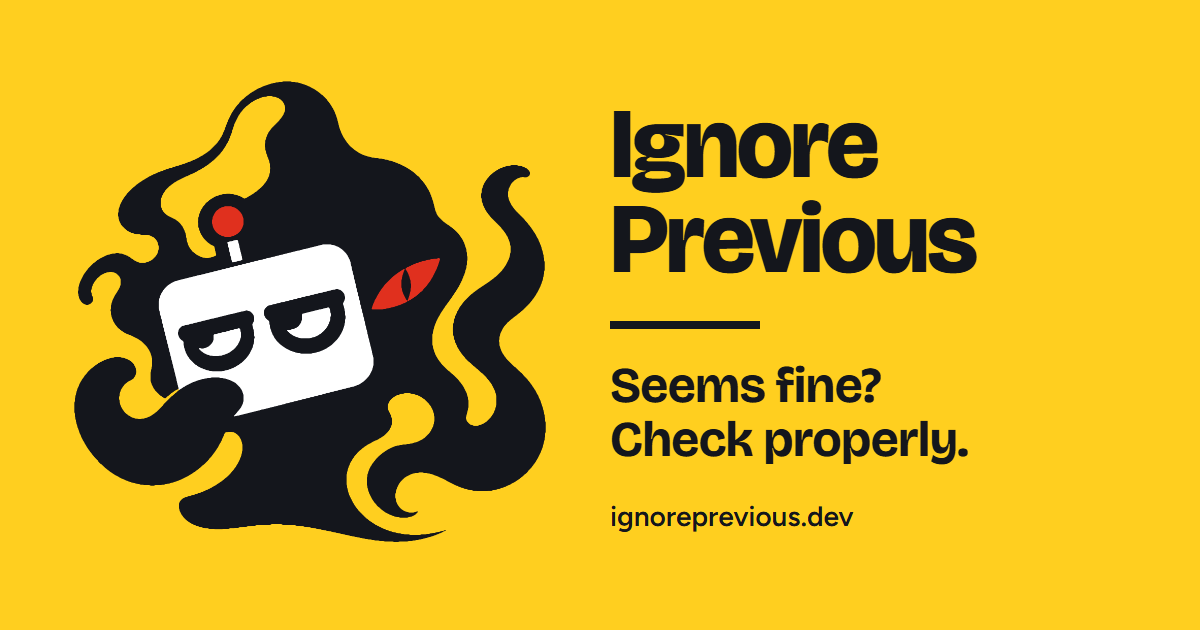
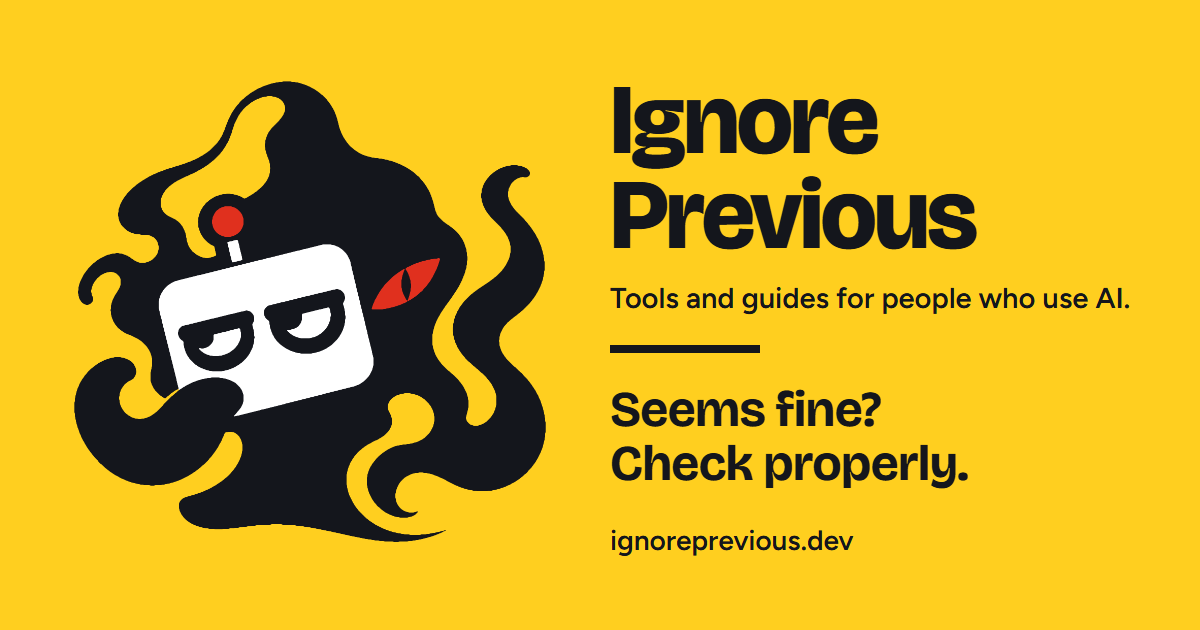
Add the Why section, proof chips and the subline
Home page: new tool-card leads, proof chips that link to their tests and
threat model, "won't" details moved into the install boxes, and a closing
section that names the alignment problem in everyday words. The headline
now holds two lines at phone widths with the shoggoth centred above it.

The home title, og:title, link preview image and image alt text carry the
subline "Tools and guides for people who use AI." VOICE.md gains rules for
the word "alignment", the voice, proof chips and the subline.

Changed region(s): [[0.4933, 0.1206, 0.9558, 0.7841], [0.4933, 0.8143, 0.7092, 0.8746]]

diff --git a/src/index.html b/src/index.html
@@ -3,9 +3,9 @@
 <head>
 <meta charset="utf-8">
 <meta name="viewport" content="width=device-width, initial-scale=1, viewport-fit=cover">
-<title>Ignore Previous: Seems fine? Check properly.</title>
+<title>Ignore Previous: Seems fine? Check properly. Tools and guides for people who use AI</title>
 <meta name="description" content="We make tools that keep a person in the loop with AI. They check what the AI is allowed to do, and whether what it makes holds up for real people.">
-<meta property="og:title" content="Ignore Previous">
+<meta property="og:title" content="Ignore Previous: Seems fine? Check properly. Tools and guides for people who use AI">
 <meta property="og:description" content="We make tools that keep a person in the loop with AI. They check what the AI is allowed to do, and whether what it makes holds up for real people.">
 <meta property="og:type" content="website">
 <meta property="og:url" content="https://ignoreprevious.dev/">
@@ -14,7 +14,7 @@
 <meta property="og:image" content="https://ignoreprevious.dev/assets/og.png">
 <meta property="og:image:width" content="1200">
 <meta property="og:image:height" content="630">
-<meta property="og:image:alt" content="The Ignore Previous shoggoth on yellow, with the tagline &quot;Seems fine? Check properly.&quot;">
+<meta property="og:image:alt" content="The Ignore Previous shoggoth on yellow, with the tagline &quot;Seems fine? Check properly.&quot; and the line &quot;Tools and guides for people who use AI.&quot;">
 <meta property="og:site_name" content="Ignore Previous">
 <meta name="twitter:card" content="summary_large_image">
 <meta name="theme-color" content="#f1f3f7" media="(prefers-color-scheme: light)">
@@ -125,8 +125,8 @@
       <img class="f f-three" src="/assets/hero-three.png" width="200" height="200" alt="">
     </div>
     <div class="hero-text">
-      <h1>Seems fine? <mark>Check properly.</mark></h1>
-      <p>We make tools that keep a person in the loop with AI. They check what the AI is allowed to do, and whether what it makes holds up for real people. The code is public, and each tool tells you what it sends, where it runs and what it won't do.</p>
+      <h1><span class="h1-a">Seems fine?</span> <mark>Check properly.</mark></h1>
+      <p>We make tools that keep a person in the loop with AI. They check what the AI is allowed to do, and whether what it makes holds up for real people. The code is public, and each tool shows where it runs and what it sends.</p>
     </div>
   </header>
 
@@ -141,13 +141,18 @@
             <a class="cta" href="#whats-allowed-run">How to run it</a>
           </div>
           <p class="links"><a href="https://github.com/ignore-previous/whatsallowed">GitHub</a> <span class="dot">&middot;</span> <a href="https://www.npmjs.com/package/whatsallowed">npm</a> <span class="dot">&middot;</span> <a href="https://github.com/ignore-previous/whatsallowed/blob/main/docs/ACCURACY.md">Test results</a></p>
-          <p>Flags risky settings in Claude Code, Codex and Cursor, down to the line.</p>
-          <p class="who">For developers who use those tools.</p>
+          <p class="lead">Finds the settings that let your AI run code or read your secrets without asking.</p>
+          <p class="who">For developers who use Claude Code, Codex or Cursor.</p>
         </div>
         <details class="fold">
           <summary>Example and how to run it</summary>
           <div class="fold-body">
-        <p class="promise limits"><span class="pi"><b>Runs:</b> <a href="https://github.com/ignore-previous/whatsallowed/blob/main/docs/THREAT_MODEL.md#assumptions">on your computer</a> <span class="dot">&middot;</span></span> <span class="pi"><b>Sends:</b> <a href="https://github.com/ignore-previous/whatsallowed/blob/main/test/no-network.test.ts">nothing once installed (tested)</a> <span class="dot">&middot;</span></span> <span class="pi"><b>Won't:</b> <a href="https://github.com/ignore-previous/whatsallowed/blob/main/test/no-writes.test.ts">change your config, or tell you a setup is safe</a></span></p>
+        <ul class="chips" aria-label="Proof">
+          <li><a href="https://github.com/ignore-previous/whatsallowed/blob/main/docs/THREAT_MODEL.md#assumptions">Runs on your computer</a></li>
+          <li><a href="https://github.com/ignore-previous/whatsallowed/blob/main/test/no-network.test.ts">Sends nothing once installed (tested)</a></li>
+          <li><a href="https://github.com/ignore-previous/whatsallowed/blob/main/test/no-writes.test.ts">Read-only</a></li>
+          <li><a href="https://github.com/ignore-previous/whatsallowed/blob/main/docs/THREAT_MODEL.md#what-it-cant-see">Never says &quot;safe&quot;</a></li>
+        </ul>
         <p class="fine">For example: a hook that pipes <code>curl</code> into <code>sh</code>, an MCP server run with <code>npx</code> and no version, or a <code>.env</code> file the agent can read without asking.</p>
         <div class="show">
           <div class="tabs">
@@ -208,6 +213,7 @@ Look at these first (5)
                 <div><dt>From</dt><dd>Your project's folder.</dd></div>
                 <div><dt>What it does</dt><dd>Reads your agents' settings files and lists what it found, like the "In your terminal" example. The first time, npx asks to download What's Allowed from npm: type <code>y</code>. Needs Node.js 20 or later.</dd></div>
                 <div><dt>Undo</dt><dd>Nothing to undo: it changes no files or settings. npm keeps the download in its cache. The one exception is <code>whatsallowed baseline</code>, which writes one file of its own, <code>~/.whatsallowed/baseline.json</code>, and only when you run it.</dd></div>
+                <div><dt>Won't</dt><dd><a href="https://github.com/ignore-previous/whatsallowed/blob/main/test/no-writes.test.ts">Change your config</a>, or <a href="https://github.com/ignore-previous/whatsallowed/blob/main/docs/THREAT_MODEL.md#what-it-cant-see">tell you a setup is safe</a>. A clean result means its rules found nothing in the files they read.</dd></div>
               </dl>
             </div>
             <div role="tabpanel" id="panel-wa-ask" aria-labelledby="tab-wa-ask">
@@ -261,13 +267,17 @@ Rules:
             <a class="cta" href="#unclank-run">How to install it</a>
           </div>
           <p class="links"><a href="https://github.com/ignore-previous/unclank">GitHub</a></p>
-          <p>Skills that catch what AI misses on launch pages, quizzes and game store pages.</p>
+          <p class="lead">Finds what AI missed on your launch page, quiz or game store page.</p>
           <p class="who">For anyone shipping one with Claude Code or Codex.</p>
         </div>
         <details class="fold">
           <summary>Examples and how to install it</summary>
           <div class="fold-body">
-        <p class="promise limits"><span class="pi"><b>Runs:</b> <a href="https://github.com/ignore-previous/unclank#install">inside Claude Code or Codex</a> <span class="dot">&middot;</span></span> <span class="pi"><b>Sends:</b> <a href="https://github.com/ignore-previous/unclank/tree/main/skills">only what that app already sends</a> <span class="dot">&middot;</span></span> <span class="pi"><b>Won't:</b> <a href="https://github.com/ignore-previous/unclank#how-the-skills-work">add tracking, or change files until you ask</a></span></p>
+        <ul class="chips" aria-label="Proof">
+          <li><a href="https://github.com/ignore-previous/unclank#install">Runs inside Claude Code or Codex</a></li>
+          <li><a href="https://github.com/ignore-previous/unclank/tree/main/skills">Sends only what that app already sends</a></li>
+          <li><a href="https://github.com/ignore-previous/unclank#how-the-skills-work">Edits files only when you ask</a></li>
+        </ul>
         <p class="fine">For example: a browser tab still showing the default icon, quiz answers you can guess without reading, or a store page that breaks a platform's AI rules. Every item cites its sources.</p>
         <div class="show">
           <p class="ex-h">Example: one finding on a sample project</p>
@@ -314,6 +324,7 @@ Rules:
                 <div><dt>From</dt><dd>Any folder. Choose <b>Install for you</b> to use it in every project.</dd></div>
                 <div><dt>What it does</dt><dd>Shows what Unclank adds (three skills) and asks where to install it. Then it installs the skills and says whether to run <code>/reload-plugins</code>.</dd></div>
                 <div><dt>Undo</dt><dd>Type <code>/plugin</code>, open the Installed tab, pick Unclank and choose Uninstall.</dd></div>
+                <div><dt>Won't</dt><dd><a href="https://github.com/ignore-previous/unclank#how-the-skills-work">Add tracking</a>.</dd></div>
               </dl>
               <details class="ask">
                 <summary>Or ask Claude Code to install it</summary>
@@ -397,6 +408,11 @@ Rules:
       </article>
 
     </div>
+  </section>
+
+  <section class="sect why" aria-labelledby="why">
+    <h2 class="h2" id="why">It did what you said. Was it what you meant?</h2>
+    <p>Researchers call this the alignment problem: getting AI to do what people actually meant. Our tools are one practical way to check for it day to day.</p>
   </section>
 
   </main>

diff --git a/src/assets/site.css b/src/assets/site.css
@@ -96,6 +96,14 @@ h1, h2, h3 { margin: 0; font-family: var(--display); text-wrap: balance; }
 .hero h1 { font-size: clamp(2.3rem, 7vw, 3.6rem); line-height: 1; font-weight: 800; letter-spacing: -.03em; }
 .hero h1 mark { background: var(--accent); color: var(--accent-ink); padding: 0 .1em; border-radius: .1em; box-decoration-break: clone; -webkit-box-decoration-break: clone; }
 .hero p { font-size: 1.15rem; color: var(--mute); max-width: 36rem; }
+/* Phone: the shoggoth centred above the headline, and the headline on two lines, one phrase each.
+   The size keeps "Check properly." on one line down to a 320 px screen. */
+@media not (min-width: 40rem) {
+  .hero .mark { width: 11.75rem; height: 11.75rem; justify-self: center; }
+  .hero h1 { font-size: min(2.3rem, 10.6vw); }
+  .hero h1 .h1-a { display: block; }
+  .hero h1 .h1-a, .hero h1 mark { white-space: nowrap; }
+}
 
 .h2 { font-size: clamp(1.5rem, 4.5vw, 2rem); font-weight: 800; letter-spacing: -.02em; }
 .sect { display: flex; flex-direction: column; gap: 1.1rem; min-width: 0; }
@@ -156,7 +164,7 @@ footer .fonts { color: var(--mute); grid-column: 1 / -1; font-size: .85rem; }
 .callout .cap { margin: 0; }
 
 
-/* V3: wrapped config lines, tabs, terminal view, promise line */
+/* V3: wrapped config lines, tabs, terminal view, proof chips */
 .code pre { overflow-x: visible; }
 .code .ln { grid-template-columns: 2.4rem minmax(0, 1fr); white-space: pre-wrap; overflow-wrap: anywhere; width: auto; min-width: 0; }
 .code pre.flush { padding-top: 0; }
@@ -192,11 +200,15 @@ footer .fonts { color: var(--mute); grid-column: 1 / -1; font-size: .85rem; }
 .term.slim .tbar { display: none; }
 .term.slim .tbody { padding: .6rem .8rem .7rem; gap: .55rem; }
 
-.promise { font-size: .92rem; }
-.promise .pi { white-space: nowrap; }
-.promise b { font-weight: 700; }
+/* Proof chips: each a short fact that links to its proof. Outlined, never yellow (yellow is for actions). */
+.card .chips { flex-direction: row; flex-wrap: wrap; gap: .5rem; }
+.card .chips li { padding-left: 0; }
+.card .chips li::before { content: none; }
+.chips a { display: inline-flex; align-items: center; gap: .45rem; min-height: 2rem; padding: .2rem .8rem .2rem .7rem; border: 1.5px solid var(--line); border-radius: 99px; background: var(--surface); font-size: .9rem; font-weight: 600; line-height: 1.3; text-decoration: none; }
+.chips a::before { content: ""; flex: none; width: .3rem; height: .6rem; margin: -.15rem .1rem 0 .1rem; border-right: 2px solid currentColor; border-bottom: 2px solid currentColor; transform: rotate(45deg); }
+.chips a:hover { background: var(--well); text-decoration: underline; text-decoration-thickness: 1px; }
 .show.wide { max-width: 46rem; }
-@media (max-width: 30rem) { .promise .pi { display: block; white-space: normal; } .promise .dot { display: none; } .newbie .nb-btn { white-space: normal; text-align: center; } }
+@media (max-width: 30rem) { .newbie .nb-btn { white-space: normal; text-align: center; } }
 .show .code { align-self: stretch; }
 
 /* Read by screen readers, not shown. */
@@ -232,6 +244,8 @@ footer .fonts { color: var(--mute); grid-column: 1 / -1; font-size: .85rem; }
 .links a { display: inline-flex; align-items: center; min-height: 1.75rem; }
 .links .dot { color: var(--mute); }
 .who { color: var(--mute); font-size: .95rem; }
+.tool-top .lead { font-size: 1.1rem; font-weight: 500; text-wrap: pretty; }
+.why p { max-width: 40rem; font-size: 1.1rem; }
 .cta { align-self: flex-start; background: var(--accent); color: var(--accent-ink); font-family: var(--display); font-weight: 700; padding: .55rem 1.1rem; border-radius: 99px; border: 2px solid #14161c; text-decoration: none; text-align: center; }
 .cta:hover { text-decoration: underline; text-underline-offset: 4px; }
 .cta:focus-visible { outline-offset: 4px; }
@@ -267,7 +281,6 @@ footer .fonts { color: var(--mute); grid-column: 1 / -1; font-size: .85rem; }
 @media (min-width: 50rem) { .pair { grid-template-columns: minmax(0, 1fr) minmax(0, 1fr); } }
 .card.guide { display: flex; flex-direction: column; gap: .8rem; }
 .tool-head { display: flex; flex-wrap: wrap; align-items: center; justify-content: space-between; gap: .6rem 1rem; }
-.promise a { padding-block: .2rem; }
 @media (max-width: 30rem) { .tool-top, .fold-body { padding: 1rem; } .fold > summary { padding-inline: 1rem; } .card.guide { padding: 1rem; } .tool-top { gap: .5rem; } }
 @media (max-width: 30rem) { .cta { font-size: .92rem; padding: .4rem .85rem; } .tool-head h3 { font-size: 1.35rem; } .pair, .stack { gap: 1rem; } }
 .tool h3, .how-h { scroll-margin-top: 1.5rem; }

diff --git a/brand/og.html b/brand/og.html
@@ -9,7 +9,8 @@ body { position: relative; width: 1200px; height: 630px; overflow: hidden; backg
 .shog { position: absolute; left: 50px; top: 55px; width: 520px; height: 520px; }
 .text { position: absolute; left: 610px; top: 0; bottom: 0; width: 540px; display: flex; flex-direction: column; justify-content: center; }
 h1 { margin: 0; font-family: "Bricolage Grotesque", sans-serif; font-weight: 800; font-size: 100px; line-height: .95; letter-spacing: -.03em; }
-.rule { width: 150px; height: 8px; margin: 34px 0 30px; background: #14161c; }
+.sub { margin: 18px 0 0; font-family: "Figtree", sans-serif; font-weight: 600; font-size: 29px; line-height: 1.2; }
+.rule { width: 150px; height: 8px; margin: 30px 0 30px; background: #14161c; }
 .tag { margin: 0; font-family: "Bricolage Grotesque", sans-serif; font-weight: 700; font-size: 50px; line-height: 1.08; letter-spacing: -.015em; }
 .url { margin: 32px 0 0; font-family: "Figtree", sans-serif; font-weight: 600; font-size: 28px; }
 </style></head>
@@ -17,6 +18,7 @@ h1 { margin: 0; font-family: "Bricolage Grotesque", sans-serif; font-weight: 800
 <img class="shog" src="shoggoth-primary-brand-1024.png" alt="">
 <div class="text">
   <h1>Ignore<br>Previous</h1>
+  <p class="sub">Tools and guides for people who use AI.</p>
   <div class="rule"></div>
   <p class="tag">Seems fine?<br>Check properly.</p>
   <p class="url">ignoreprevious.dev</p>

diff --git a/src/clank-safely/index.html b/src/clank-safely/index.html
@@ -14,7 +14,7 @@
 <meta property="og:image" content="https://ignoreprevious.dev/assets/og.png">
 <meta property="og:image:width" content="1200">
 <meta property="og:image:height" content="630">
-<meta property="og:image:alt" content="The Ignore Previous shoggoth on yellow, with the tagline &quot;Seems fine? Check properly.&quot;">
+<meta property="og:image:alt" content="The Ignore Previous shoggoth on yellow, with the tagline &quot;Seems fine? Check properly.&quot; and the line &quot;Tools and guides for people who use AI.&quot;">
 <meta property="og:site_name" content="Ignore Previous">
 <meta name="twitter:card" content="summary_large_image">
 <meta name="theme-color" content="#f1f3f7" media="(prefers-color-scheme: light)">

diff --git a/src/terminal/index.html b/src/terminal/index.html
@@ -14,7 +14,7 @@
 <meta property="og:image" content="https://ignoreprevious.dev/assets/og.png">
 <meta property="og:image:width" content="1200">
 <meta property="og:image:height" content="630">
-<meta property="og:image:alt" content="The Ignore Previous shoggoth on yellow, with the tagline &quot;Seems fine? Check properly.&quot;">
+<meta property="og:image:alt" content="The Ignore Previous shoggoth on yellow, with the tagline &quot;Seems fine? Check properly.&quot; and the line &quot;Tools and guides for people who use AI.&quot;">
 <meta property="og:site_name" content="Ignore Previous">
 <meta name="twitter:card" content="summary_large_image">
 <meta name="theme-color" content="#f1f3f7" media="(prefers-color-scheme: light)">

diff --git a/src/what-can-my-ai-see/index.html b/src/what-can-my-ai-see/index.html
@@ -14,7 +14,7 @@
 <meta property="og:image" content="https://ignoreprevious.dev/assets/og.png">
 <meta property="og:image:width" content="1200">
 <meta property="og:image:height" content="630">
-<meta property="og:image:alt" content="The Ignore Previous shoggoth on yellow, with the tagline &quot;Seems fine? Check properly.&quot;">
+<meta property="og:image:alt" content="The Ignore Previous shoggoth on yellow, with the tagline &quot;Seems fine? Check properly.&quot; and the line &quot;Tools and guides for people who use AI.&quot;">
 <meta property="og:site_name" content="Ignore Previous">
 <meta name="twitter:card" content="summary_large_image">
 <meta name="theme-color" content="#f1f3f7" media="(prefers-color-scheme: light)">

diff --git a/VOICE.md b/VOICE.md
@@ -10,10 +10,19 @@ real person uses it. A person in the loop is what makes it fit. Our tools help t
 allowed to do and whether what it made holds up.
 
 Our readers use AI on purpose, so we never talk about spotting AI, proving someone used it, or judging other
-people's work. We also leave "alignment" out of public copy and say who the work is for.
+people's work. We say who the work is for.
 
 - Do: "so the work fits the people who'll use it"
-- Don't: "aligned with user needs", "tells you whether AI wrote this"
+- Don't: "tells you whether AI wrote this"
+
+## The word "alignment"
+
+Use "alignment" at most once per page, never in the hero or a headline, and only below the hero. Explain it in
+everyday words in the same sentence. It names the problem, never our achievement: no "alignment tool", "aligned AI"
+or "makes AI safe".
+
+- Do: "Researchers call this the alignment problem: getting AI to do what people actually meant."
+- Don't: "Our alignment tool keeps your AI aligned with user needs."
 
 ## Who speaks
 
@@ -21,6 +30,12 @@ people's work. We also leave "alignment" out of public copy and say who the work
 
 - Do: "We make tools that keep a person in the loop with AI."
 - Don't: "I built this because…", "ruddy recommends…"
+
+We sound like a wry friend who's in on the memes, uses AI every day, has fought to get it to do what they actually
+meant, and wants to keep control of it.
+
+- Do: "It did what you said. Was it what you meant?"
+- Don't: "Unlock the full power of AI", or "AI is coming for your job".
 
 ## Humour
 
@@ -77,14 +92,16 @@ Advice is our recommendation. Strong, flat statements are for documented facts o
   the project and none of your real passwords or personal files."
 - Don't: "Never run this outside a container."
 
-## The limits line
+## Proof chips
 
-Every tool says where it runs, what it sends and what it won't do, in one fixed shape. Each part links to its proof:
-a test, the threat model, ACCURACY.md.
+Each tool card opens with one line about what you get, then a row of short proof chips: where it runs, what it
+sends and what it won't do. Each chip is a positive fact that links to its proof: a test, the threat model,
+ACCURACY.md. Keep a "never" chip only when it's an honesty promise. Any other "won't" detail goes in the install box,
+beside Undo. Chips are outlined links, never yellow: yellow is for actions.
 
-- Do: "Runs: on your computer · Sends: nothing once installed (tested) · Won't: change your config, or tell you a
-  setup is safe"
-- Don't: a row of badges such as "Local-first", "Privacy-friendly", "Secure".
+- Do: `Runs on your computer` · `Sends nothing once installed (tested)` · `Read-only` · `Never says "safe"`
+- Don't: a "Won't:" sentence on the card, or badges with no proof behind them, such as "Local-first",
+  "Privacy-friendly", "Secure".
 
 ## Network wording
 
@@ -110,7 +127,7 @@ them. *Checked.*
 - Do: "Open the settings and turn off auto-approve."
 - Don't: "Just turn off auto-approve."
 
-Watch "check". One per sentence is plenty.
+Never use "check" twice in one sentence.
 
 - Do: "It reads your settings files and flags risky ones."
 - Don't: "Check your settings with a check that checks…"
@@ -152,6 +169,15 @@ carry the line.
 
 - Do: "Built with Claude." or, where Codex built part of it, "Built with Claude and Codex."
 - Don't: "Made with AI", or a paragraph about which model wrote which file.
+
+## The subline
+
+"Tools and guides for people who use AI." It goes where the brand travels without the page: the link preview
+(`src/assets/og.png`, under the name), the home page `<title>` and its `og:title`. The home hero leaves it out
+because the lede already names AI. The tagline stays "Seems fine? Check properly."
+
+- Do: "Ignore Previous: Seems fine? Check properly. Tools and guides for people who use AI"
+- Don't: "Tools for checking your AI" (it repeats "check" straight after the tagline).
 
 ## The brand name
 

diff --git a/brand/README.md b/brand/README.md
@@ -34,5 +34,5 @@ Made by recolouring the pack's transparent PNGs: each pixel snaps to the nearest
 ## Built copies
 
 - `src/assets/hero-{one,blink,two,three}.png`: the four shoggoth frames above, composited on yellow at 400 px and reduced to 32 colours. The home hero stacks them and `site.css` fades them in once on load (about 2.6 s), then rests on the one-eye still. Reduced motion shows the still only.
-- `src/assets/og.png`: 1200 x 630 link preview. Shoggoth on yellow with the site name and the tagline, set in Bricolage Grotesque and Figtree. Made from `brand/og.html` with headless Chrome: edit the HTML, then run `node brand/og.mjs` from the repo root (set `CHROME` if Chrome is not in the usual Windows place). Check it still reads at 600 x 315.
+- `src/assets/og.png`: 1200 x 630 link preview. Shoggoth on yellow with the site name, the subline and the tagline, set in Bricolage Grotesque and Figtree. Made from `brand/og.html` with headless Chrome: edit the HTML, then run `node brand/og.mjs` from the repo root (set `CHROME` if Chrome is not in the usual Windows place). Check it still reads at 600 x 315.
 - `cards/assets/`: `avatar.png` and `banner.png` for the social profile, and `shoggoth-yellow-1024.png` (the tile for the wallpaper banner).
